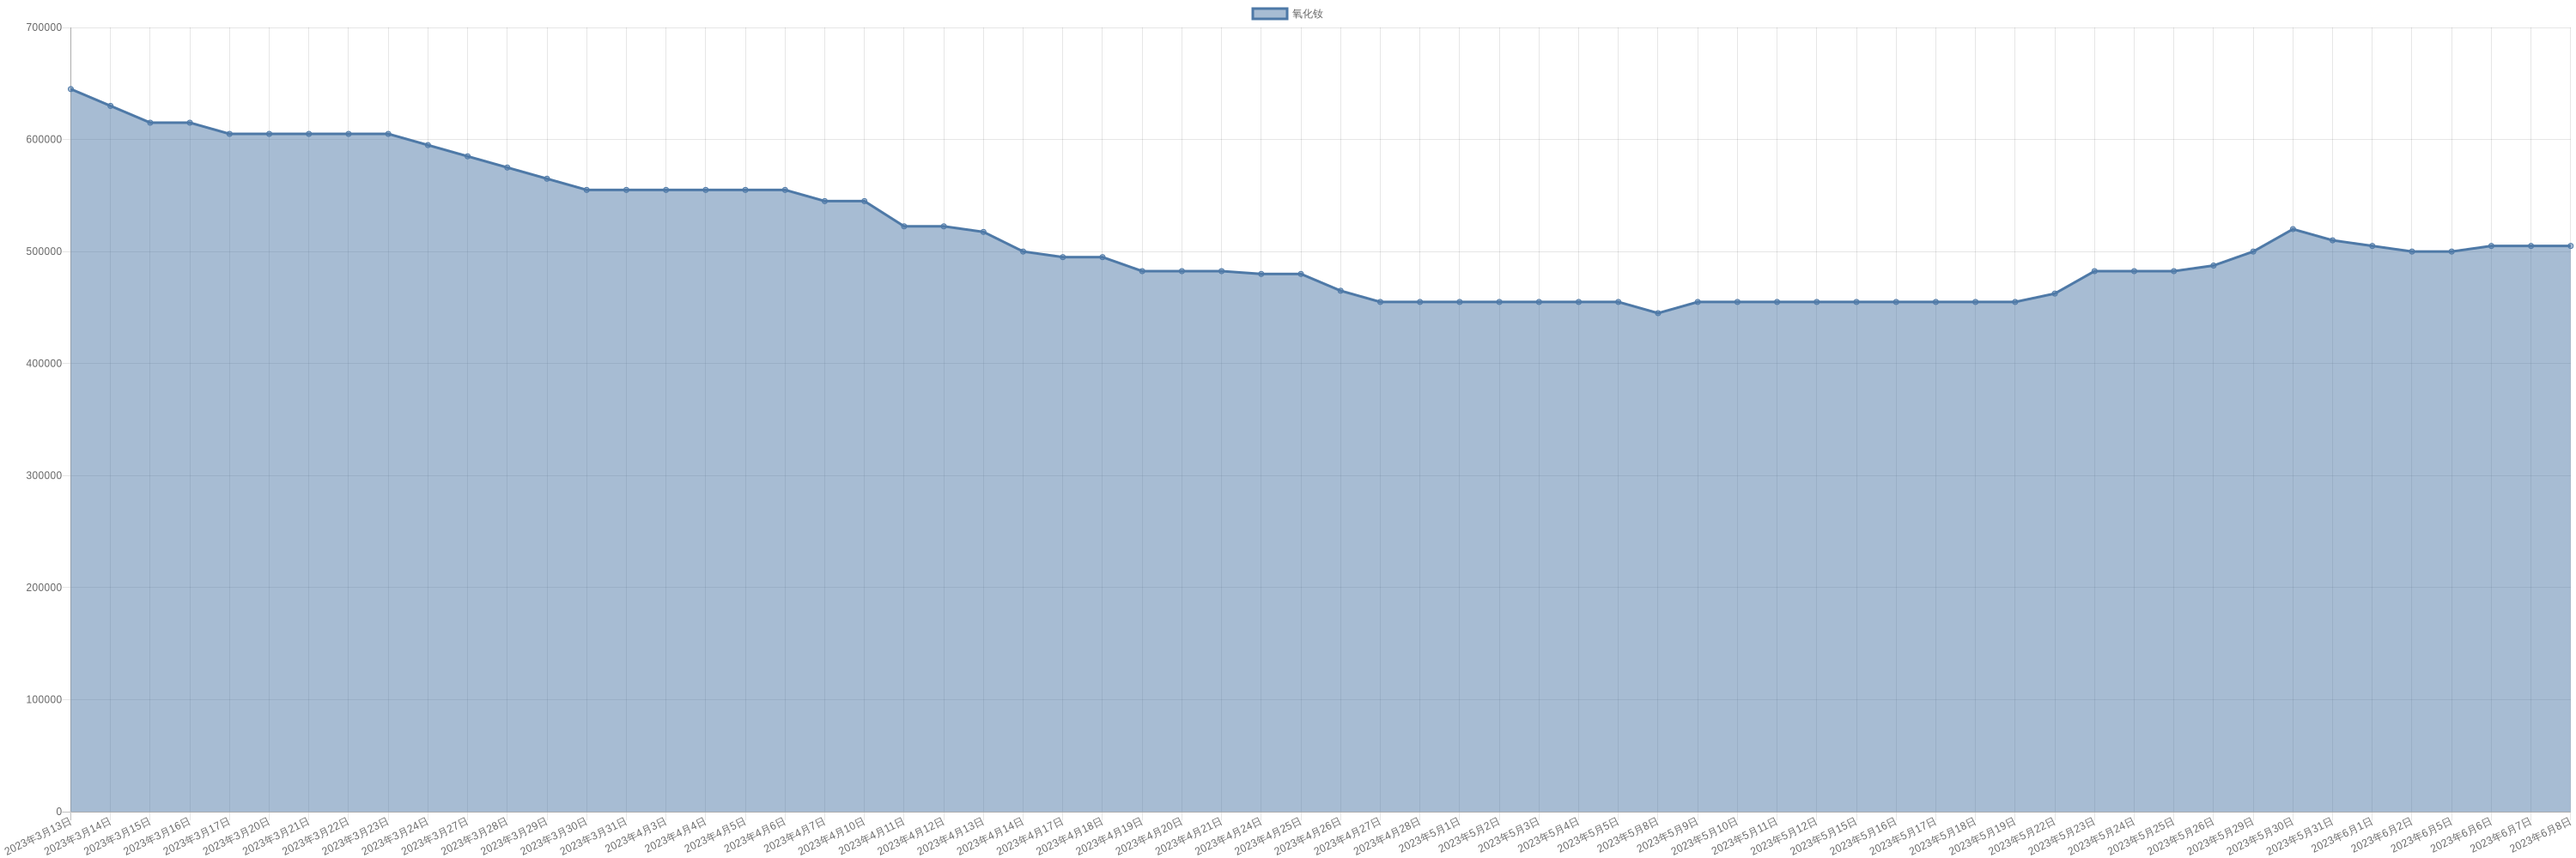
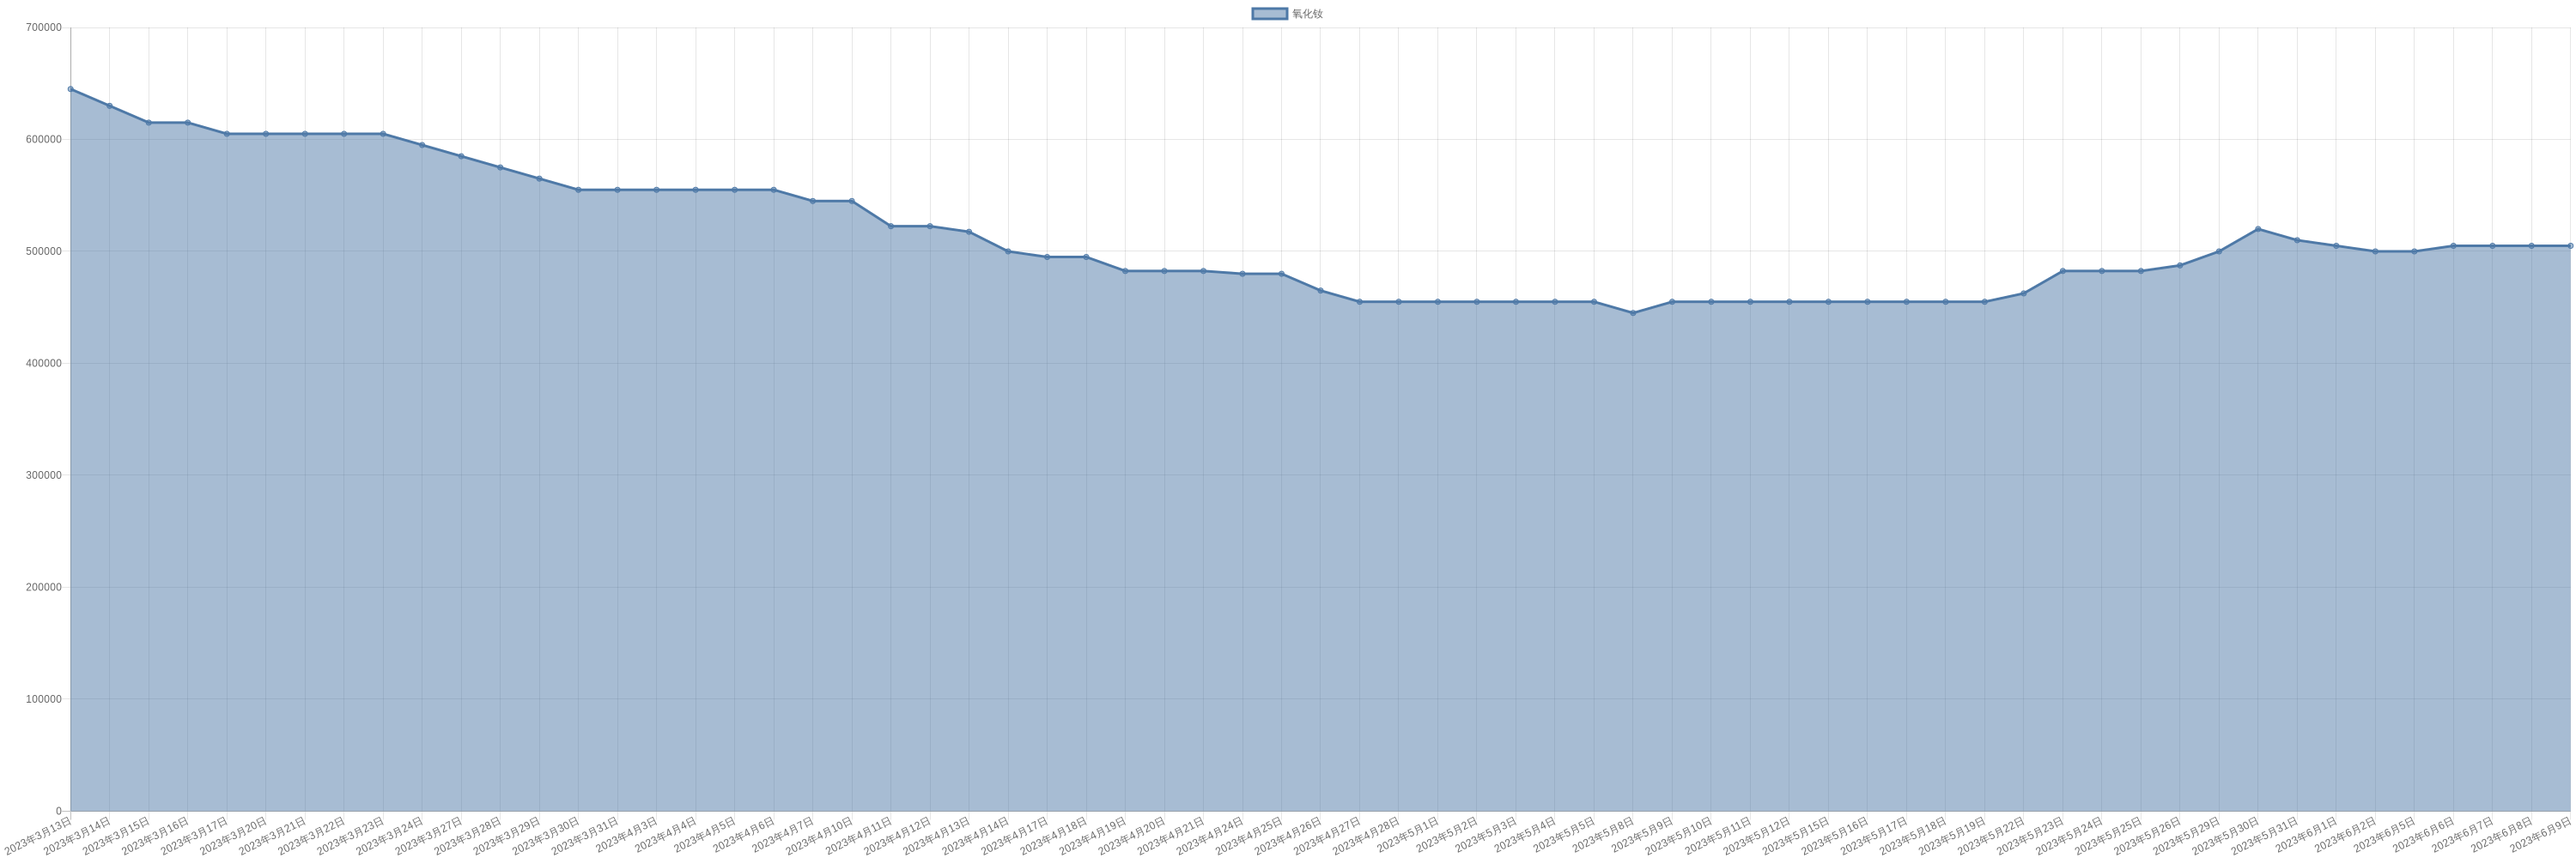
chore: sync commodity monitor

diff --git a/markdown/commodity/crudeOil.md b/markdown/commodity/crudeOil.md
@@ -2,6 +2,8 @@
 
 | 时间 | 价格 | 消息正文 |
 |:--:|:--:|:--:|
+|2023年6月9日Brent|75.96|6月9日Brent原油为75.96|
+|2023年6月9日WTI|71.29|6月9日WTI原油为71.29|
 |2023年6月8日WTI|72.53|6月8日WTI原油为72.53|
 |2023年6月8日Brent|76.95|6月8日Brent原油为76.95|
 |2023年6月7日Brent|76.29|6月7日Brent原油为76.29|

diff --git a/markdown/commodity/praseodymiumNeodymiumOxide.md b/markdown/commodity/praseodymiumNeodymiumOxide.md
@@ -8,6 +8,7 @@
 
 | 时间 | 价格 | 消息正文 |
 |:--:|:--:|:--:|
+|2023年6月9日|500000|6月9日镨钕氧化物为500000.00|
 |2023年6月8日|500000|6月8日镨钕氧化物为500000.00|
 |2023年6月7日|500000|6月7日镨钕氧化物为500000.00|
 |2023年6月6日|500000|6月6日镨钕氧化物为500000.00|

diff --git a/markdown/commodity/dyFeAlloy.md b/markdown/commodity/dyFeAlloy.md
@@ -8,6 +8,7 @@
 
 | 时间 | 价格 | 消息正文 |
 |:--:|:--:|:--:|
+|2023年6月9日|2070000|6月9日镝铁合金为2070000.00|
 |2023年6月8日|2060000|6月8日镝铁合金为2060000.00|
 |2023年6月7日|2060000|6月7日镝铁合金为2060000.00|
 |2023年6月6日|2060000|6月6日镝铁合金为2060000.00|

diff --git a/markdown/commodity/lithiumHydroxide.md b/markdown/commodity/lithiumHydroxide.md
@@ -8,6 +8,7 @@
 
 | 时间 | 价格 | 消息正文 |
 |:--:|:--:|:--:|
+|2023年6月9日|332500|6月9日氢氧化锂为332500.00|
 |2023年6月8日|332500|6月8日氢氧化锂为332500.00|
 |2023年6月7日|331250|6月7日氢氧化锂为331250.00|
 |2023年6月6日|331250|6月6日氢氧化锂为331250.00|

diff --git a/markdown/commodity/praseodymiumNeodymiumAlloy.md b/markdown/commodity/praseodymiumNeodymiumAlloy.md
@@ -8,6 +8,7 @@
 
 | 时间 | 价格 | 消息正文 |
 |:--:|:--:|:--:|
+|2023年6月9日|602500|6月9日镨钕合金为602500.00|
 |2023年6月8日|602500|6月8日镨钕合金为602500.00|
 |2023年6月7日|602500|6月7日镨钕合金为602500.00|
 |2023年6月6日|602500|6月6日镨钕合金为602500.00|

diff --git a/markdown/commodity/dysprosiumMetal.md b/markdown/commodity/dysprosiumMetal.md
@@ -8,6 +8,7 @@
 
 | 时间 | 价格 | 消息正文 |
 |:--:|:--:|:--:|
+|2023年6月9日|2680000|6月9日金属镝为2680000.00|
 |2023年6月8日|2680000|6月8日金属镝为2680000.00|
 |2023年6月7日|2680000|6月7日金属镝为2680000.00|
 |2023年6月6日|2680000|6月6日金属镝为2680000.00|

diff --git a/markdown/commodity/dysprosiumOxide.md b/markdown/commodity/dysprosiumOxide.md
@@ -8,6 +8,7 @@
 
 | 时间 | 价格 | 消息正文 |
 |:--:|:--:|:--:|
+|2023年6月9日|2115000|6月9日氧化镝为2115000.00|
 |2023年6月8日|2105000|6月8日氧化镝为2105000.00|
 |2023年6月7日|2105000|6月7日氧化镝为2105000.00|
 |2023年6月6日|2090000|6月6日氧化镝为2090000.00|

diff --git a/markdown/commodity/liquefiedNaturalGas.md b/markdown/commodity/liquefiedNaturalGas.md
@@ -8,6 +8,7 @@
 
 | 时间 | 价格 | 消息正文 |
 |:--:|:--:|:--:|
+|2023年6月9日|3588|6月9日液化天然气为3588.00|
 |2023年6月8日|3560|6月8日液化天然气为3560.00|
 |2023年6月7日|3574|6月7日液化天然气为3574.00|
 |2023年6月6日|3522|6月6日液化天然气为3522.00|

diff --git a/markdown/commodity/lithiumIronPhosphate.md b/markdown/commodity/lithiumIronPhosphate.md
@@ -8,6 +8,7 @@
 
 | 时间 | 价格 | 消息正文 |
 |:--:|:--:|:--:|
+|2023年6月9日|94000|6月9日磷酸铁锂为94000.00|
 |2023年6月8日|94000|6月8日磷酸铁锂为94000.00|
 |2023年6月7日|92000|6月7日磷酸铁锂为92000.00|
 |2023年6月6日|92000|6月6日磷酸铁锂为92000.00|

diff --git a/markdown/commodity/neodymium.md b/markdown/commodity/neodymium.md
@@ -8,6 +8,7 @@
 
 | 时间 | 价格 | 消息正文 |
 |:--:|:--:|:--:|
+|2023年6月9日|635000|6月9日金属钕为635000.00|
 |2023年6月8日|635000|6月8日金属钕为635000.00|
 |2023年6月7日|635000|6月7日金属钕为635000.00|
 |2023年6月6日|635000|6月6日金属钕为635000.00|

diff --git a/markdown/commodity/neodymiumOxide.md b/markdown/commodity/neodymiumOxide.md
@@ -8,6 +8,7 @@
 
 | 时间 | 价格 | 消息正文 |
 |:--:|:--:|:--:|
+|2023年6月9日|505000|6月9日氧化钕为505000.00|
 |2023年6月8日|505000|6月8日氧化钕为505000.00|
 |2023年6月7日|505000|6月7日氧化钕为505000.00|
 |2023年6月6日|505000|6月6日氧化钕为505000.00|

diff --git a/markdown/commodity/praseodymium.md b/markdown/commodity/praseodymium.md
@@ -8,6 +8,7 @@
 
 | 时间 | 价格 | 消息正文 |
 |:--:|:--:|:--:|
+|2023年6月9日|635000|6月9日金属镨为635000.00|
 |2023年6月8日|635000|6月8日金属镨为635000.00|
 |2023年6月7日|635000|6月7日金属镨为635000.00|
 |2023年6月6日|635000|6月6日金属镨为635000.00|
